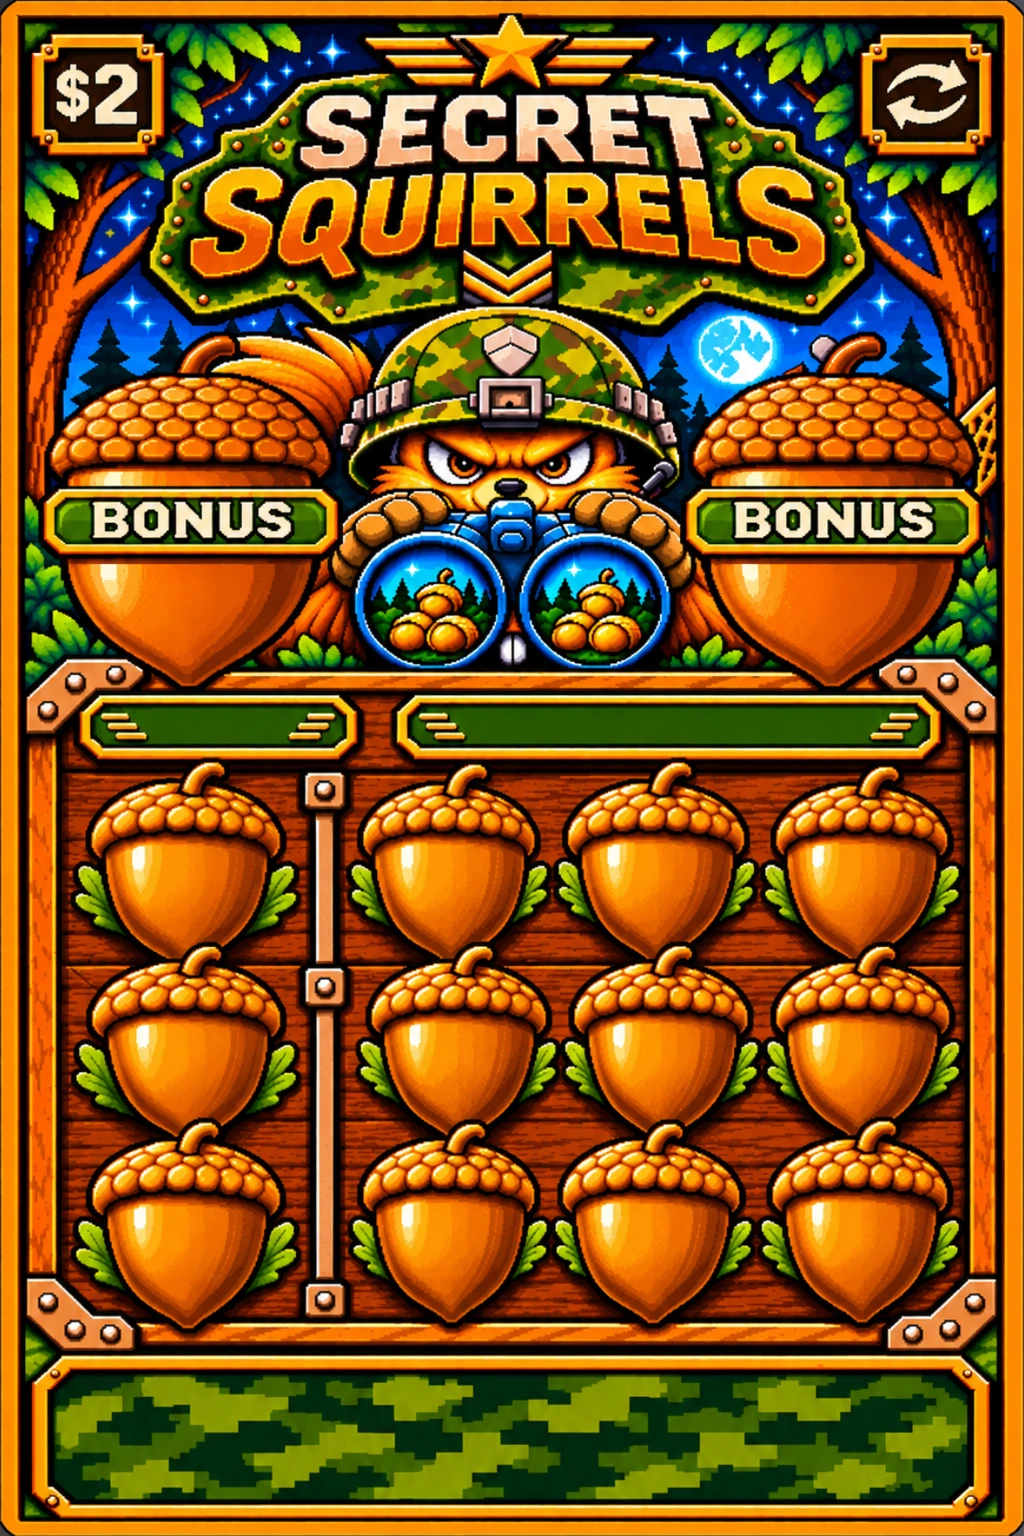
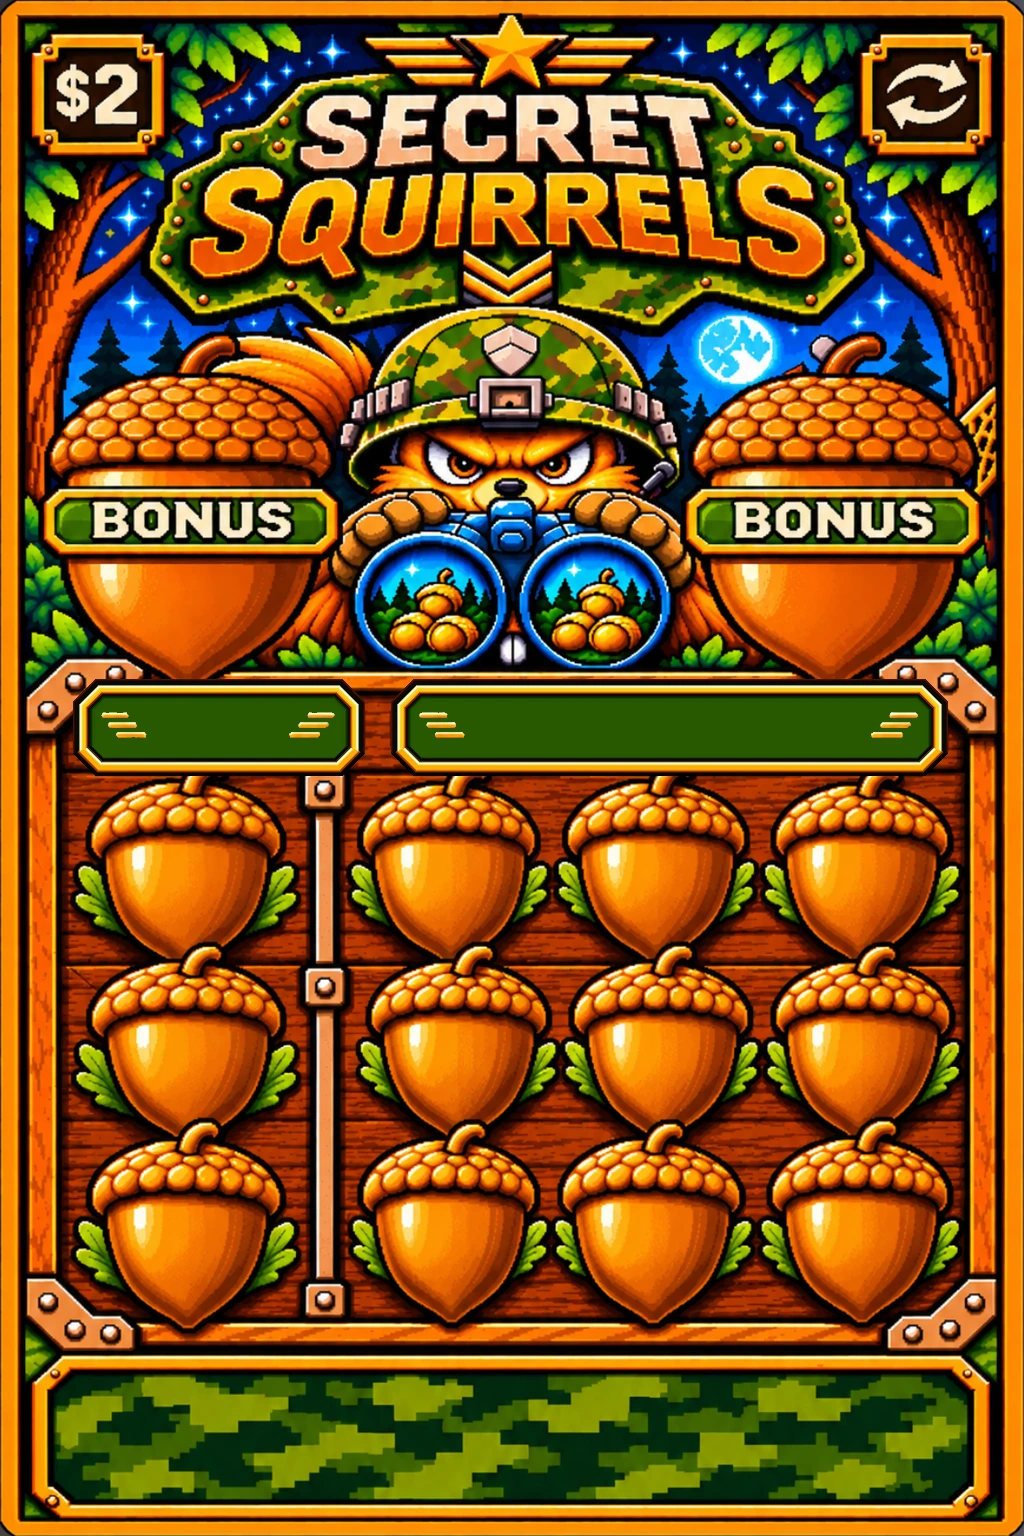
preview (not live): v3.17.1 Secret Squirrels taller green plaques; left plaque reads WINNING SYMBOLS
Plaques redrawn ~24 px taller from the art's own frame colours (mostly downward, keeping the top rail);
back step 1 now says 'winning symbols'.

Claude-Session: https://claude.ai/code/session_01KmGxi5FWQEcSyM2TCx745j

Changed region(s): [[0.0625, 0.4375, 0.9375, 0.5312]]

diff --git a/secret-squirrels.html b/secret-squirrels.html
@@ -39,8 +39,8 @@ main{max-width:520px;margin:0 auto;padding:2px 0 18px;text-align:center}
 .tx{position:absolute;pointer-events:none;z-index:2;display:flex;align-items:center;justify-content:center;text-align:center;
  font-family:"Black Ops One","Arial Black",sans-serif;color:#f6e8c0;letter-spacing:.06em;line-height:1;
  text-shadow:.25cqw .25cqw 0 #142008,-.15cqw -.15cqw 0 #142008,.15cqw -.15cqw 0 #142008,-.15cqw .15cqw 0 #142008}
-.tx.plateL{left:15.6%;width:11%;top:46.1%;height:2.5%;font-size:2.3cqw;letter-spacing:.03em}
-.tx.plateR{left:48%;width:33.5%;top:46.1%;height:2.5%;font-size:2.8cqw}
+.tx.plateL{left:15.6%;width:13.5%;top:45.4%;height:3.8%;font-size:2.15cqw;letter-spacing:.02em;flex-direction:column;gap:.5cqw;line-height:1}
+.tx.plateR{left:44.9%;width:40.5%;top:45.4%;height:3.8%;font-size:3.3cqw}
 .tx.foot{left:6%;right:6%;top:89.6%;height:7.9%;flex-direction:column;gap:.6cqw;font-size:2.6cqw;line-height:1.15;font-family:"Baloo 2",system-ui,sans-serif;font-weight:800;letter-spacing:.01em;
  text-shadow:.3cqw .3cqw 0 #0c1606,-.25cqw -.25cqw 0 #0c1606,.25cqw -.25cqw 0 #0c1606,-.25cqw .25cqw 0 #0c1606,0 0 1.5cqw #0c1606}
 .tx.foot .sub{font-family:"Baloo 2",system-ui,sans-serif;font-weight:800;letter-spacing:.02em;font-size:2.7cqw;color:#ffd84a}
@@ -77,20 +77,20 @@ main{max-width:520px;margin:0 auto;padding:2px 0 18px;text-align:center}
 <main>
 <div class="stage" id="ticket">
 <div class="inner">
-<img id="front" src="secret-squirrels-front.webp?v=3.17.0" alt="Secret Squirrels two-dollar scratch-off ticket front: two bonus acorns and twelve acorns to scratch." draggable="false">
-<img id="back" src="secret-squirrels-back.webp?v=3.17.0" alt="Secret Squirrels back. Blank wooden instructions area and three military squirrels." draggable="false" hidden>
+<img id="front" src="secret-squirrels-front.webp?v=3.17.1" alt="Secret Squirrels two-dollar scratch-off ticket front: two bonus acorns and twelve acorns to scratch." draggable="false">
+<img id="back" src="secret-squirrels-back.webp?v=3.17.1" alt="Secret Squirrels back. Blank wooden instructions area and three military squirrels." draggable="false" hidden>
 <canvas id="symbols" width="1024" height="1536"></canvas>
 <canvas id="scratch" width="1024" height="1536" aria-label="Scratch the acorns to reveal what is inside"></canvas>
 <canvas id="crumbs" width="1024" height="1536"></canvas>
 <canvas id="fx" width="1024" height="1536"></canvas>
 </div>
-<div class="tx front plateL">SECRET</div>
+<div class="tx front plateL"><span>WINNING</span><span>SYMBOLS</span></div>
 <div class="tx front plateR">YOUR SYMBOLS</div>
 <div class="tx front foot"><div class="big">★ SCRATCH THE BONUS NUTS ★</div><div class="big">MATCH SYMBOLS TO WIN CASH!</div></div>
 <div class="backtext">
 <div class="stamp">TOP SECRET · MISSION BRIEFING</div>
 <h3>CRACK THE CODE!</h3>
-<div class="step"><b>1. FIND YOUR TARGETS</b> Scratch the 3 <span class="gold">secret symbols</span> on the left.</div>
+<div class="step"><b>1. FIND YOUR TARGETS</b> Scratch the 3 <span class="gold">winning symbols</span> on the left.</div>
 <div class="step"><b>2. MATCH &amp; CASH IN</b> Scratch your 9 symbols. Each match in its row wins <span class="gold">$1</span>!</div>
 <div class="step"><b>3. RAID THE BONUS STASH</b> Scratch both BONUS acorns to find the hidden sacks.</div>
 <div class="sacks"><figure><i style="background-position:0 0"></i>Empty <span class="gold">$0</span></figure><figure><i style="background-position:33.333% 0"></i>One nut <span class="gold">$1</span></figure><figure><i style="background-position:66.667% 0"></i>Stash <span class="gold">$5</span></figure><figure><i style="background-position:100% 0"></i>Overflowing <span class="gold">$10</span></figure></div>
@@ -421,7 +421,7 @@ function scratchSound(){const now=performance.now();if(!soundOn||now-lastSfx<55)
  const len=Math.floor(A.sampleRate*.06),b=A.createBuffer(1,len,A.sampleRate),d=b.getChannelData(0);let v=0;for(let i=0;i<len;i++){if(i%2===0)v=Math.random()*2-1;d[i]=v*(0.6+0.4*Math.random());}
  const n=A.createBufferSource(),f=A.createBiquadFilter(),g=A.createGain();n.buffer=b;f.type='bandpass';f.frequency.value=3200+Math.random()*1400;f.Q.value=0.8;
  g.gain.setValueAtTime(.1,t);g.gain.exponentialRampToValueAtTime(.0001,t+.06);n.connect(f);f.connect(g);g.connect(A.destination);n.start(t);n.stop(t+.07);}catch(err){}}
-cover.onload=setup;cover.src='secret-squirrels-cover.webp?v=3.17.0';
+cover.onload=setup;cover.src='secret-squirrels-cover.webp?v=3.17.1';
 document.getElementById('newTicket').addEventListener('click',()=>{if(showingBack)flip.click();if(cover.complete)setup();});
 window.__secretSquirrels={WINDOWS,SCRATCH,RULES,ticket:()=>ticket,stats:()=>({...stats}),forceTicket:t=>{forced=t;setup();},effects:()=>effects.length,matchCount:()=>matchCount,result:()=>resultEl.textContent,seen:()=>cells.filter(c=>c.seen).map(c=>c.w.id),mouth:id=>{const c=cells.find(x=>x.w.id===id);return c&&c.mouth?c.mouth.length:0;},scratchAt,reset:setup,grains:()=>grains.length,revealed:()=>cells.filter(c=>c.left===0).map(c=>c.w.id),progress:()=>cells.map(c=>+(1-c.left/c.gone.length).toFixed(2))};
 function sendHeight(){try{parent.postMessage({secretSquirrelsHeight:Math.ceil(document.querySelector('main').getBoundingClientRect().bottom)+8},location.origin)}catch(err){}}
